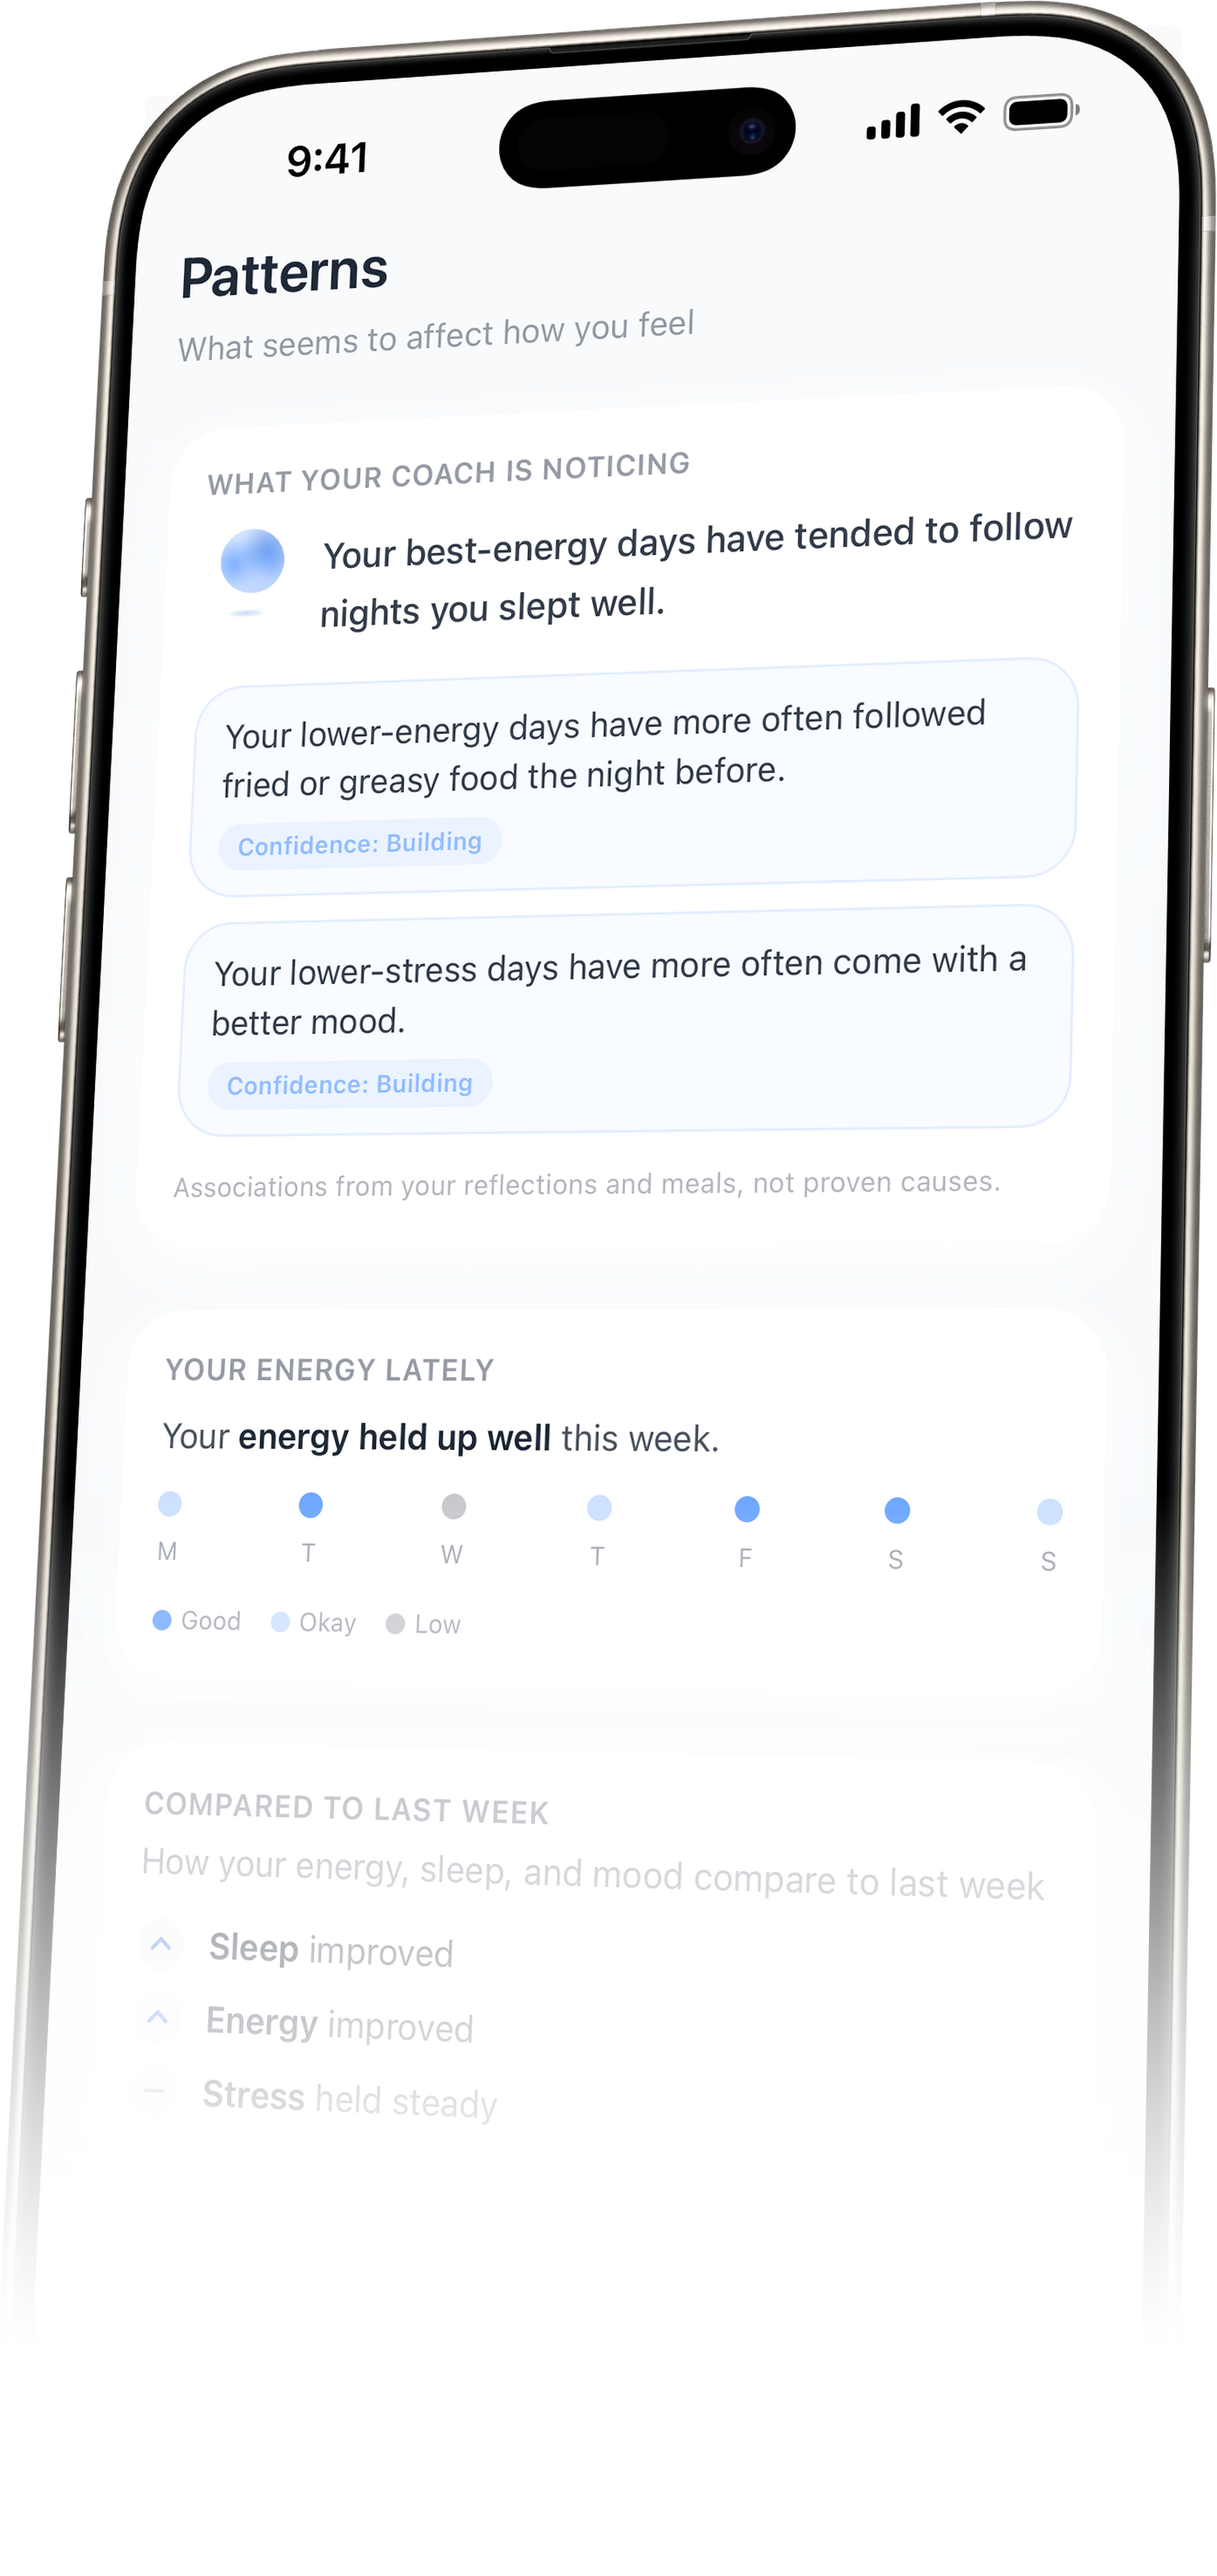
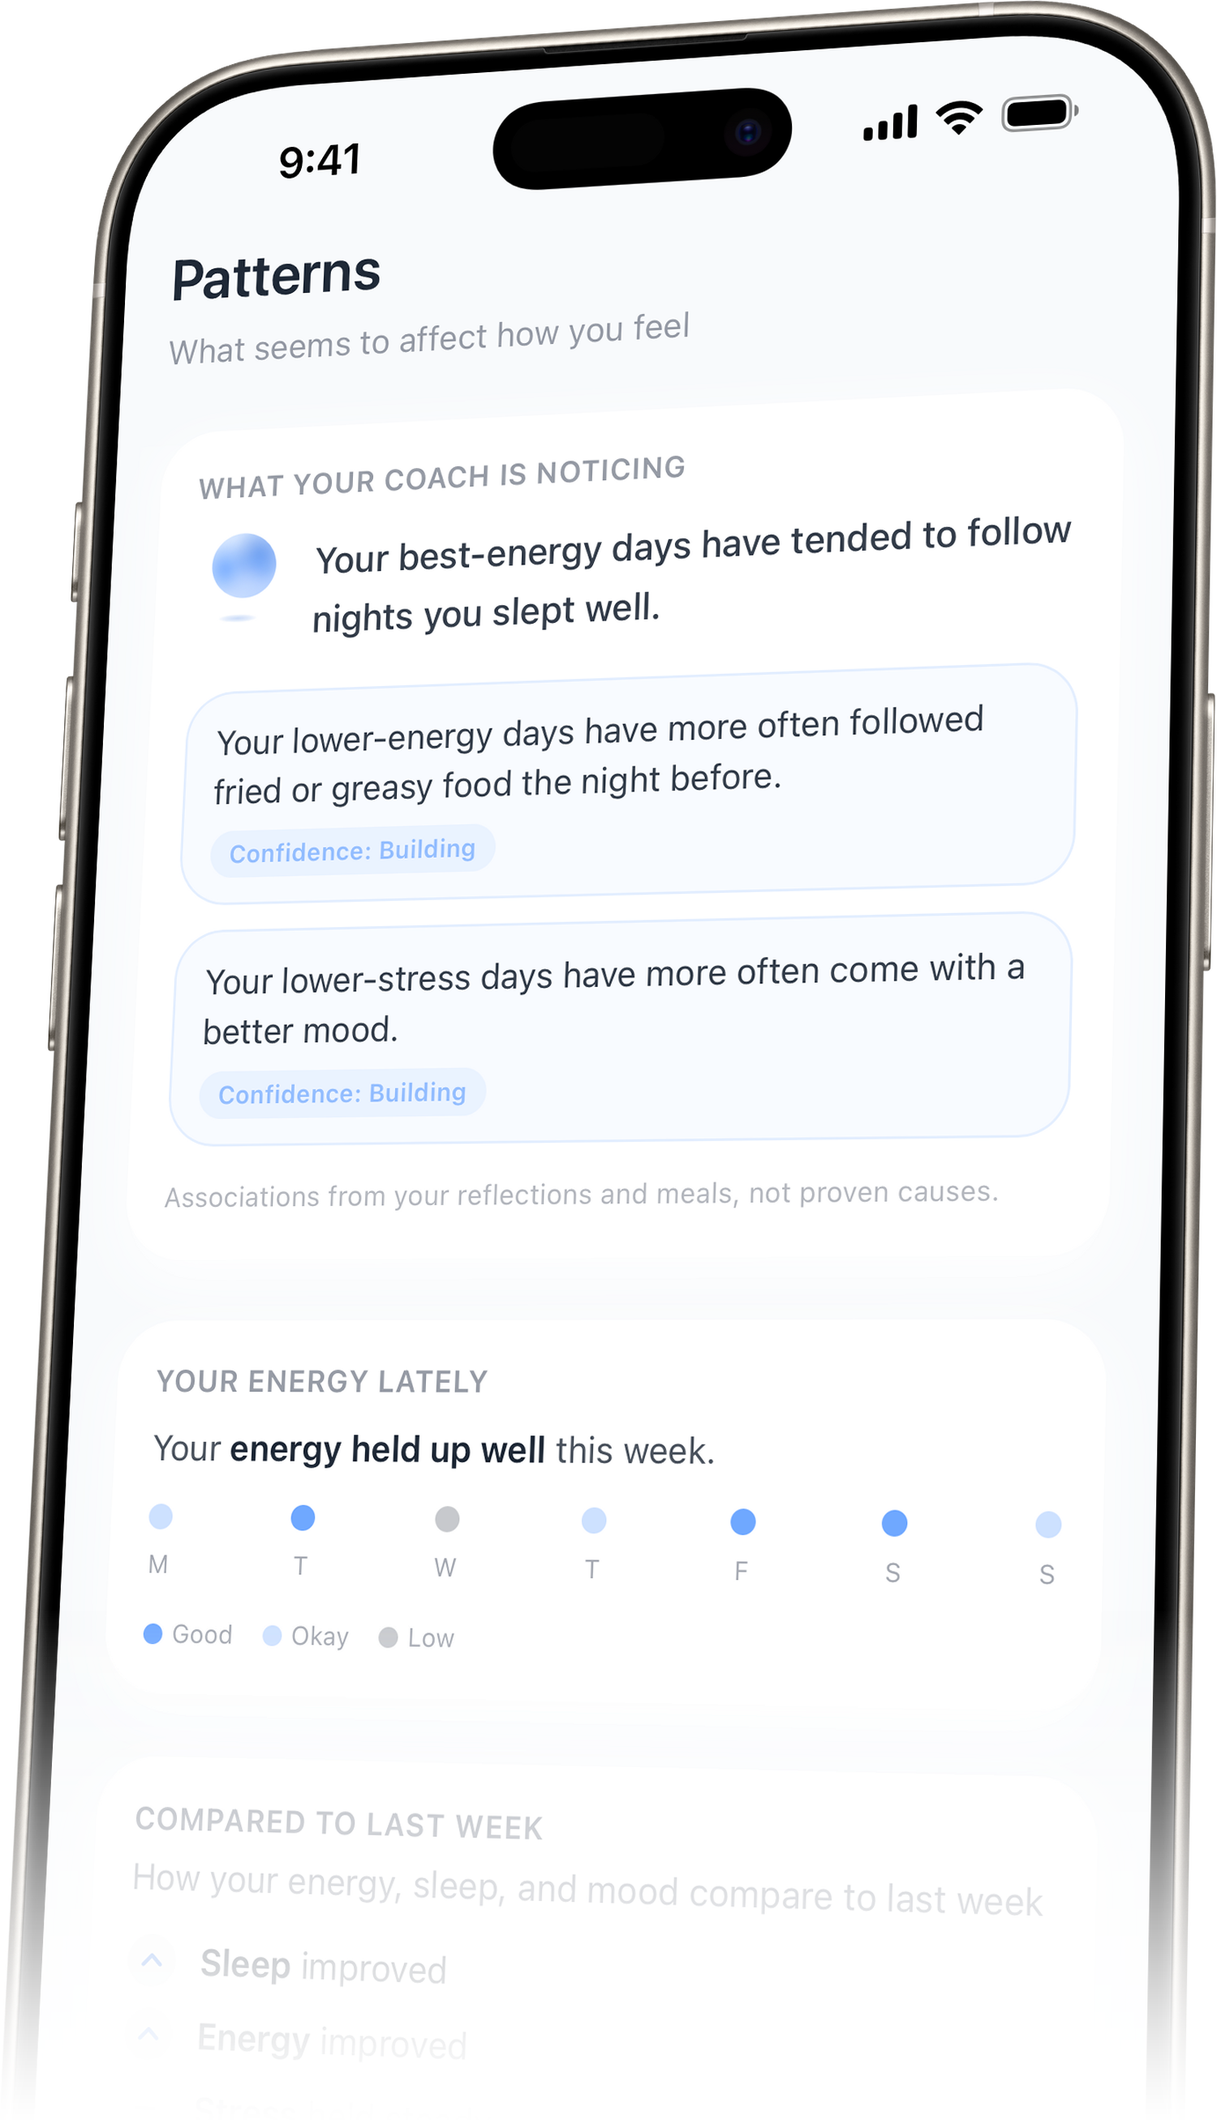
fix: even out the section rhythm and stop the screen corner bleeding
Gaps between sections measured 148 to 283px because padding was uniform
while content heights were not. Tightened to one rhythm, trimmed the
device's transparent tail, and rounded the screenshot to the display radius
so its square corner no longer pokes past the phone body.

diff --git a/app/page.tsx b/app/page.tsx
@@ -30,7 +30,7 @@ export default function Home() {
       </header>
 
       {/* ── HERO ────────────────────────────────────────────── */}
-      <section className="relative px-6 pt-32 sm:pt-36">
+      <section className="relative px-6 pb-4 pt-28 sm:pb-6 sm:pt-32">
         <div className="mx-auto max-w-[52rem] text-center">
           <h1 className="text-balance text-[clamp(40px,6.6vw,74px)] font-bold leading-[1.03] tracking-[-0.04em]">
             Know why you feel the way you do
@@ -49,14 +49,14 @@ export default function Home() {
 
         {/* Device fades into the wash at its base, with one lifted card
             crossing it the way Bevel lets the watch break the phone. */}
-        <div className="relative mx-auto mt-12 w-full max-w-[60rem] sm:mt-14">
+        <div className="relative mx-auto mt-10 w-full max-w-[60rem] sm:mt-12">
           <Parallax speed={-18}>
             <Reveal>
               <Image
                 src="/device/iphone-home.png"
                 alt="The WhatYouAte home screen"
                 width={1500}
-                height={3175}
+                height={2614}
                 priority
                 className="mx-auto block w-[78%] max-w-[360px] sm:w-[46%] sm:max-w-[430px]"
               />
@@ -92,7 +92,7 @@ export default function Home() {
       </section>
 
       {/* ── HOW IT WORKS ────────────────────────────────────── */}
-      <section className="px-6 py-20 sm:py-28">
+      <section className="px-6 py-14 sm:py-20">
         <div className="mx-auto max-w-[68rem]">
           <Reveal>
             <SectionHeading
@@ -101,7 +101,7 @@ export default function Home() {
               body="Nothing to weigh, nothing to plan. The whole loop takes about a minute."
             />
           </Reveal>
-          <div className="mt-14 grid gap-10 sm:mt-16 sm:grid-cols-3 sm:gap-12">
+          <div className="mt-12 grid gap-10 sm:mt-14 sm:grid-cols-3 sm:gap-12">
             {STEPS.map((s, i) => (
               <Reveal key={s.t} delay={0.08 * i}>
                 <div className="text-center sm:text-left">
@@ -123,8 +123,8 @@ export default function Home() {
       </section>
 
       {/* ── COACH ───────────────────────────────────────────── */}
-      <section className="px-6 py-20 sm:py-28">
-        <div className="mx-auto grid max-w-[64rem] items-center gap-14 lg:grid-cols-2 lg:gap-20">
+      <section className="px-6 py-14 sm:py-20">
+        <div className="mx-auto grid max-w-[64rem] items-center gap-10 lg:grid-cols-2 lg:gap-16">
           <Reveal>
             <SectionHeading
               center={false}
@@ -142,8 +142,8 @@ export default function Home() {
       </section>
 
       {/* ── PATTERNS ────────────────────────────────────────── */}
-      <section className="px-6 py-20 sm:py-28">
-        <div className="mx-auto grid max-w-[64rem] items-center gap-14 lg:grid-cols-2 lg:gap-20">
+      <section className="px-6 py-14 sm:py-20">
+        <div className="mx-auto grid max-w-[64rem] items-center gap-10 lg:grid-cols-2 lg:gap-16">
           <Parallax speed={-20} className="lg:order-2">
             <Reveal>
               <UiCard src="/ui/energy-dips.png" alt="When your energy dips, across your last nine nights" width={1208} height={488} tilt={-1.4} lift="lg" />
@@ -161,8 +161,8 @@ export default function Home() {
       </section>
 
       {/* ── HABITS ──────────────────────────────────────────── */}
-      <section className="px-6 py-20 sm:py-28">
-        <div className="mx-auto grid max-w-[64rem] items-center gap-14 lg:grid-cols-2 lg:gap-20">
+      <section className="px-6 py-14 sm:py-20">
+        <div className="mx-auto grid max-w-[64rem] items-center gap-10 lg:grid-cols-2 lg:gap-16">
           <Reveal>
             <SectionHeading
               center={false}
@@ -180,7 +180,7 @@ export default function Home() {
       </section>
 
       {/* ── THE REST OF THE DAY ─────────────────────────────── */}
-      <section className="px-6 py-20 sm:py-28">
+      <section className="px-6 py-14 sm:py-20">
         <div className="mx-auto max-w-[64rem]">
           <Reveal>
             <SectionHeading
@@ -192,7 +192,7 @@ export default function Home() {
 
           {/* The wide, short water bar spans the top; the two taller cards sit
               beneath it, so nothing is forced into a column it does not fit. */}
-          <div className="mt-14 sm:mt-16">
+          <div className="mt-12 sm:mt-14">
             <Parallax speed={-14}>
               <Reveal>
                 <UiCard
@@ -229,7 +229,7 @@ export default function Home() {
       </section>
 
       {/* ── PROMISE ─────────────────────────────────────────── */}
-      <section className="px-6 py-16 sm:py-24">
+      <section className="px-6 py-14 sm:py-20">
         <Reveal>
           <div className="mx-auto max-w-[40rem] text-center">
             <h2 className="text-balance text-[clamp(26px,3.8vw,40px)] font-bold leading-[1.2] tracking-[-0.03em]">
@@ -244,7 +244,7 @@ export default function Home() {
       </section>
 
       {/* ── CTA ─────────────────────────────────────────────── */}
-      <section className="px-6 pb-24 pt-16 sm:pb-32 sm:pt-24">
+      <section className="px-6 pb-24 pt-14 sm:pb-28 sm:pt-20">
         <Reveal>
           <div className="mx-auto flex max-w-[36rem] flex-col items-center gap-6 text-center">
             <h2 className="text-balance text-[clamp(30px,4.6vw,50px)] font-bold leading-[1.08] tracking-[-0.035em] text-white">
